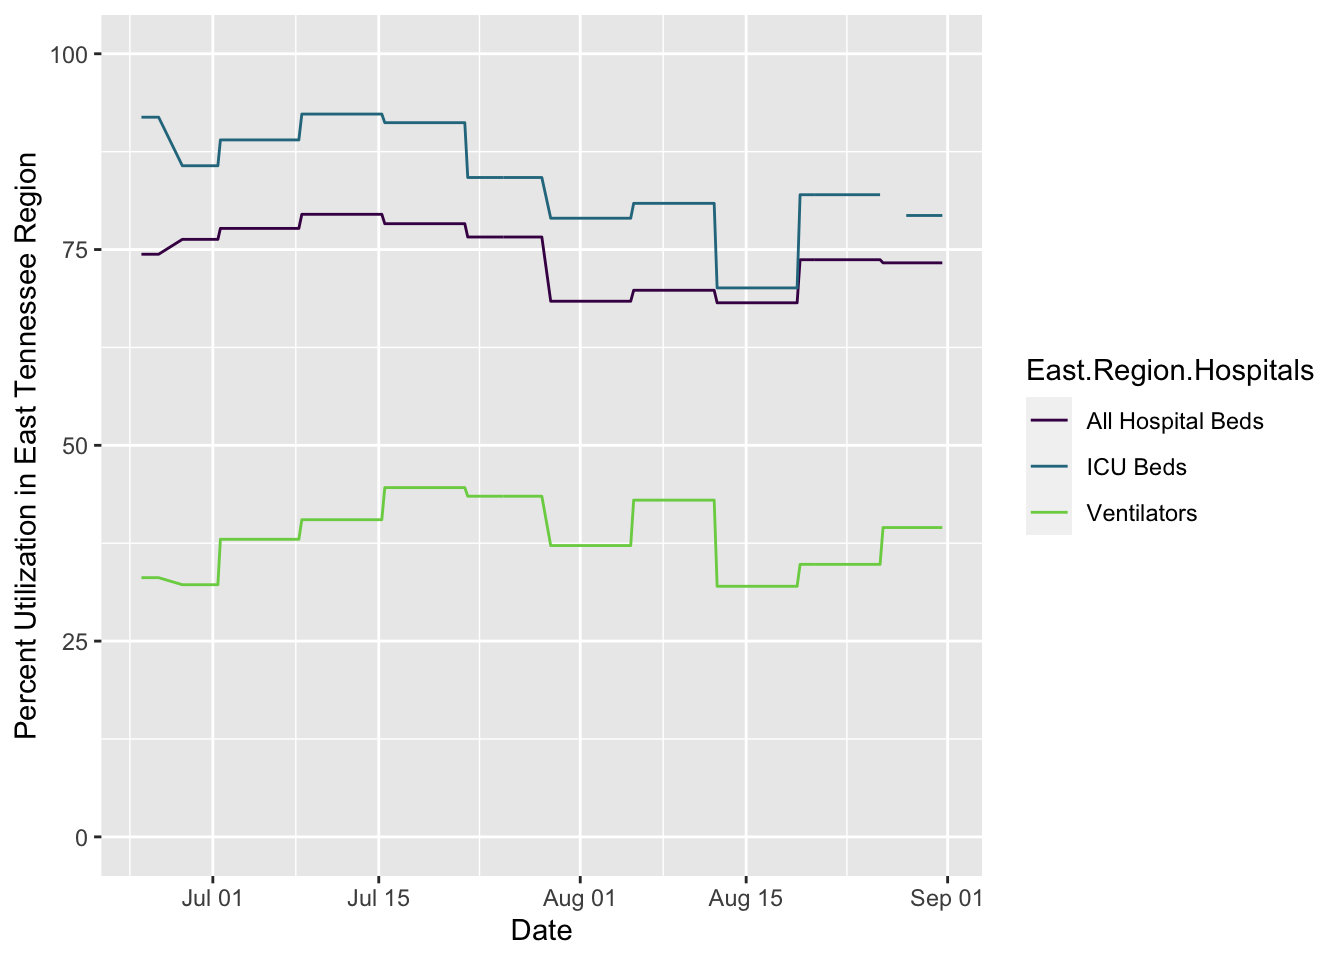
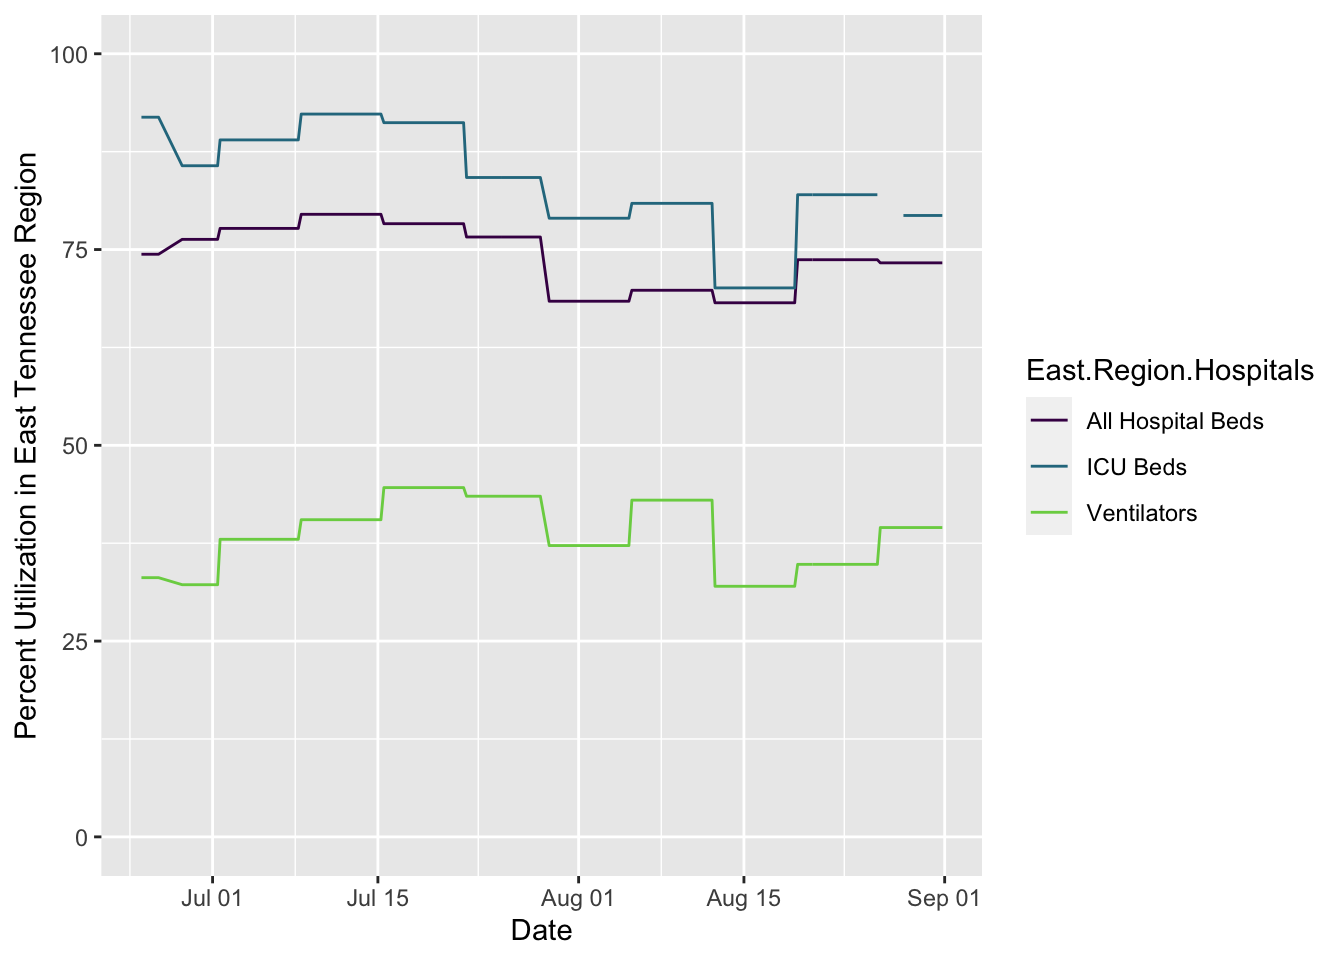
updating site

diff --git a/docs/covid.html b/docs/covid.html
@@ -424,7 +424,7 @@ $(document).ready(function () {
 <li>Info about cases at <a href="#ut">U. of Tennessee, Knoxville</a> (using public information only)</li>
 <li><a href="#webcams">Webcams</a> showing activity at local sites, though not quite at the resolution to point to mask usage or not</li>
 </ul>
-<p>The following plots are created in R using data from <a href="https://covid19datahub.io" class="uri">https://covid19datahub.io</a> (Guidotti, E., Ardia, D., (2020), “COVID-19 Data Hub”, Working paper, doi: 10.13140/RG.2.2.11649.81763), as well as information from Google and the <a href="https://www.tn.gov/health/cedep/ncov/data/downloadable-datasets.html">state of Tennessee dataset page</a> and plotting and analysis using the <code>forecast</code>, <code>ggplot2</code>, <code>reshape2</code>, and <code>dplyr</code> packages. Plots created on 2020-08-31 15:36:43. I use <code>ggplot2</code>’s <code>geom_smooth()</code> function for the smoothed regression plots with its default formula, which uses loess smoothing for this many points. This is not based on a model of disease spread or anything similarly sophisticated, just drawing a smooth curve to summarize noisy points (see <a href="https://www.itl.nist.gov/div898/handbook/pmd/section1/pmd144.htm">here</a> for more details).</p>
+<p>The following plots are created in R using data from <a href="https://covid19datahub.io" class="uri">https://covid19datahub.io</a> (Guidotti, E., Ardia, D., (2020), “COVID-19 Data Hub”, Working paper, doi: 10.13140/RG.2.2.11649.81763), as well as information from Google and the <a href="https://www.tn.gov/health/cedep/ncov/data/downloadable-datasets.html">state of Tennessee dataset page</a> and plotting and analysis using the <code>forecast</code>, <code>ggplot2</code>, <code>reshape2</code>, and <code>dplyr</code> packages. Plots created on 2020-08-31 22:16:06. I use <code>ggplot2</code>’s <code>geom_smooth()</code> function for the smoothed regression plots with its default formula, which uses loess smoothing for this many points. This is not based on a model of disease spread or anything similarly sophisticated, just drawing a smooth curve to summarize noisy points (see <a href="https://www.itl.nist.gov/div898/handbook/pmd/section1/pmd144.htm">here</a> for more details).</p>
 <h2 id="cases">
 Cases
 </h2>
